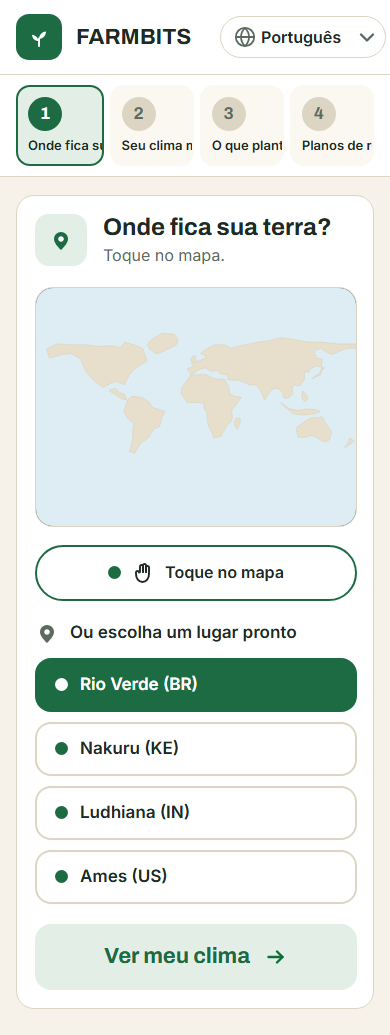
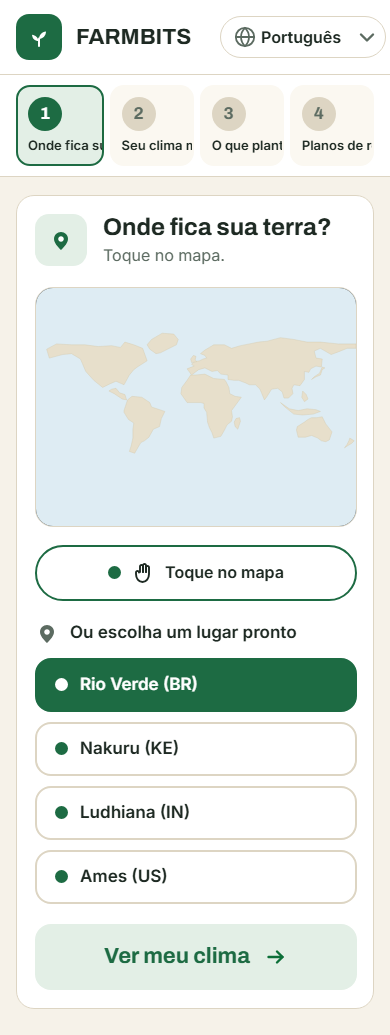
docs(site): record location screen verification

diff --git a/.specs/features/site-localizacao/tasks.md b/.specs/features/site-localizacao/tasks.md
@@ -1,10 +1,10 @@
 # Site — Onde fica sua terra? Tasks
 
-**Design**: [Design da primeira tela](design.md)  
-**Status**: In Progress  
-**Approved**: 2026-11-15 - user: "Aprovo, pode começar a implementação"  
-**Branch**: `codex/feat/site-location`  
-**Build**: `.venv/Scripts/python.exe -m compileall -q core web app.py mcp_server.py bot.py; .venv/Scripts/python.exe -m ruff check .`  
+**Design**: [Design da primeira tela](design.md)
+**Status**: Done
+**Approved**: 2026-11-15 - user: "Aprovo, pode começar a implementação"
+**Branch**: `codex/feat/site-location`
+**Build**: `.venv/Scripts/python.exe -m compileall -q core web app.py mcp_server.py bot.py; .venv/Scripts/python.exe -m ruff check .`
 **Run location**: `.venv/Scripts/python.exe -m pytest -v tests/web tests/app`
 
 ## Test Coverage Matrix
@@ -39,10 +39,10 @@ T4 → T5
 
 ### T1: Adicionar os textos da tela de localização
 
-**What**: Acrescentar ao catálogo os textos da abertura em português, inglês e espanhol e os rótulos de clima do desktop e do celular.  
-**Where**: `web/i18n.py`  
-**Depends on**: None  
-**Reuses**: Catálogo `TEXTOS` e função `t()`.  
+**What**: Acrescentar ao catálogo os textos da abertura em português, inglês e espanhol e os rótulos de clima do desktop e do celular.
+**Where**: `web/i18n.py`
+**Depends on**: None
+**Reuses**: Catálogo `TEXTOS` e função `t()`.
 **Requirement**: LOC-07, LOC-08
 
 **Done when**:
@@ -50,15 +50,15 @@ T4 → T5
 - [x] Os textos em português correspondem aos frames e as mesmas chaves estão disponíveis nos três idiomas.
 - [x] Gate quick passa com pelo menos 20 testes.
 
-**Tests**: Unit em `tests/web/test_i18n.py`, incluindo um teste novo do conjunto de textos.  
-**Gate**: Quick  
+**Tests**: Unit em `tests/web/test_i18n.py`, incluindo um teste novo do conjunto de textos.
+**Gate**: Quick
 **Commit**: `feat(site): add location screen translations`
 
 ### T2: Incorporar os ativos locais do Figma
 
-**What**: Salvar os SVGs usados na abertura desktop e mobile nos arquivos locais que o mapa e a tela carregarão.  
-**Where**: `assets/site-location/`  
-**Depends on**: None  
+**What**: Salvar os SVGs usados na abertura desktop e mobile nos arquivos locais que o mapa e a tela carregarão.
+**Where**: `assets/site-location/`
+**Depends on**: None
 **Requirement**: LOC-01, LOC-02
 
 **Done when**:
@@ -66,16 +66,16 @@ T4 → T5
 - [x] Os SVGs locais estão completos, têm as dimensões originais e estão associados aos respectivos usos no desktop e no celular.
 - [x] Gate quick passa com pelo menos 21 testes.
 
-**Tests**: Unit em `tests/web/test_site_location_assets.py`, incluindo um teste novo dos arquivos e dimensões.  
-**Gate**: Quick  
+**Tests**: Unit em `tests/web/test_site_location_assets.py`, incluindo um teste novo dos arquivos e dimensões.
+**Gate**: Quick
 **Commit**: `feat(site): add Figma location assets`
 
 ### T3: Implementar o mapa interativo
 
-**What**: Montar o mapa-múndi da abertura com a arte local, devolver o ponto normalizado de um clique e desenhar o marcador nas coordenadas selecionadas.  
-**Where**: `web/mapa.py`  
-**Depends on**: T2  
-**Reuses**: `web.pontos.normalizar`, Folium e streamlit-folium.  
+**What**: Montar o mapa-múndi da abertura com a arte local, devolver o ponto normalizado de um clique e desenhar o marcador nas coordenadas selecionadas.
+**Where**: `web/mapa.py`
+**Depends on**: T2
+**Reuses**: `web.pontos.normalizar`, Folium e streamlit-folium.
 **Requirement**: LOC-01, LOC-02, LOC-03, LOC-09
 
 **Done when**:
@@ -83,16 +83,16 @@ T4 → T5
 - [x] O mapa vazio renderiza a arte, um novo ponto substitui o marcador e o clique com longitude fora do intervalo é normalizado.
 - [x] Gate quick passa com pelo menos 23 testes.
 
-**Tests**: Unit em `tests/web/test_mapa.py`, com pelo menos dois testes novos para coordenadas e marcador.  
-**Gate**: Quick  
+**Tests**: Unit em `tests/web/test_mapa.py`, com pelo menos dois testes novos para coordenadas e marcador.
+**Gate**: Quick
 **Commit**: `feat(site): build the interactive location map`
 
 ### T4: Apresentar o contexto do local
 
-**What**: Exibir a consulta do local, o contexto retornado e os estados de erro.  
-**Where**: `web/localizacao.py`  
-**Depends on**: None  
-**Reuses**: `web.servico.Servico.contexto` e as mensagens e selos já disponíveis em `web.i18n`.  
+**What**: Exibir a consulta do local, o contexto retornado e os estados de erro.
+**Where**: `web/localizacao.py`
+**Depends on**: None
+**Reuses**: `web.servico.Servico.contexto` e as mensagens e selos já disponíveis em `web.i18n`.
 **Requirement**: LOC-05, LOC-06, LOC-10, LOC-11, LOC-12
 
 **Done when**:
@@ -100,16 +100,16 @@ T4 → T5
 - [x] O painel apresenta país, coordenadas e selo quando recebe contexto e oferece as respostas aprovadas para fora de terra firme e indisponibilidade.
 - [x] Gate quick passa com pelo menos 26 testes.
 
-**Tests**: Integração isolada em `tests/web/test_localizacao.py`, com pelo menos três testes novos para sucesso e falhas do motor.  
-**Gate**: Quick  
+**Tests**: Integração isolada em `tests/web/test_localizacao.py`, com pelo menos três testes novos para sucesso e falhas do motor.
+**Gate**: Quick
 **Commit**: `feat(site): show the selected location context`
 
 ### T5: Montar a abertura responsiva em Streamlit
 
-**What**: Integrar trilha, cabeçalho, seletor de idioma, mapa, quatro exemplos, contexto e botão de clima em uma tela responsiva.  
-**Where**: `app.py`  
-**Depends on**: T1, T3, T4  
-**Reuses**: `web.pontos.DEMO`, `web.servico.Servico`, `web.mapa`, `web.localizacao` e `web.i18n`.  
+**What**: Integrar trilha, cabeçalho, seletor de idioma, mapa, quatro exemplos, contexto e botão de clima em uma tela responsiva.
+**Where**: `app.py`
+**Depends on**: T1, T3, T4
+**Reuses**: `web.pontos.DEMO`, `web.servico.Servico`, `web.mapa`, `web.localizacao` e `web.i18n`.
 **Requirement**: LOC-01, LOC-02, LOC-03, LOC-04, LOC-05, LOC-06, LOC-07, LOC-08, LOC-09, LOC-10, LOC-11, LOC-12
 
 **Done when**:
@@ -118,52 +118,52 @@ T4 → T5
 - [x] O ponto escolhido é compartilhado entre o mapa e o painel, permanece na troca de idioma e o botão de clima continua desabilitado.
 - [x] Gate full passa com pelo menos 30 testes.
 
-**Tests**: Integração em `tests/app/test_site_location.py`, com pelo menos quatro testes novos, e verificação em navegador.  
-**Gate**: Full  
+**Tests**: Integração em `tests/app/test_site_location.py`, com pelo menos quatro testes novos, e verificação em navegador.
+**Gate**: Full
 **Commit**: `feat(site): assemble the responsive location screen`
 
 ## Checks
 
-**C1** - Abrir a 1366 px mostra a composição desktop com mapa sem ponto selecionado e o botão de clima desabilitado (LOC-01, AC 1).  
+**C1** - Abrir a 1366 px mostra a composição desktop com mapa sem ponto selecionado e o botão de clima desabilitado (LOC-01, AC 1).
 Proof: browser captures/onde-fica-sua-terra-desktop.running.png
 
-**C2** - Abrir a 390 px mostra a composição mobile, sem ponto selecionado e sem rolagem horizontal, com o botão de clima desabilitado (LOC-02, AC 2).  
+**C2** - Abrir a 390 px mostra a composição mobile, sem ponto selecionado e sem rolagem horizontal, com o botão de clima desabilitado (LOC-02, AC 2).
 Proof: browser captures/onde-fica-sua-terra-mobile.running.png
 
-**C3** - Um clique no mapa cria um marcador nas coordenadas arredondadas a duas casas e um segundo clique substitui o primeiro (LOC-03, AC 3).  
+**C3** - Um clique no mapa cria um marcador nas coordenadas arredondadas a duas casas e um segundo clique substitui o primeiro (LOC-03, AC 3).
 Proof: walk - clicar duas vezes em pontos distintos no mapa e conferir coordenadas e marcador único
 
-**C4** - Os quatro exemplos produzem os respectivos marcadores nas coordenadas de demonstração (LOC-04, AC 4).  
+**C4** - Os quatro exemplos produzem os respectivos marcadores nas coordenadas de demonstração (LOC-04, AC 4).
 Proof: run location | test_site_location.py::test_each_demo_selects_its_coordinates PASSED
 
-**C5** - Com contexto disponível, a tela exibe país, coordenadas e selo de precisão do ponto escolhido (LOC-05, AC 5).  
+**C5** - Com contexto disponível, a tela exibe país, coordenadas e selo de precisão do ponto escolhido (LOC-05, AC 5).
 Proof: run location | test_localizacao.py::test_context_shows_country_coordinates_and_precision PASSED
 
-**C6** - Enquanto o contexto está em processamento, a tela mostra um indicador de carregamento (LOC-06, AC 6).  
+**C6** - Enquanto o contexto está em processamento, a tela mostra um indicador de carregamento (LOC-06, AC 6).
 Proof: walk - selecionar um ponto com uma resposta do motor retardada e observar o indicador antes do contexto
 
-**C7** - O botão de clima permanece desabilitado antes e depois da seleção; cada largura mostra seu rótulo (LOC-07, AC 7).  
+**C7** - O botão de clima permanece desabilitado antes e depois da seleção; cada largura mostra seu rótulo (LOC-07, AC 7).
 Proof: walk - em desktop e celular conferir rótulo, estado semântico desabilitado e ausência de ação antes e depois de selecionar
 
-**C8** - Alternar entre português, inglês e espanhol traduz os textos fixos e mantém o ponto selecionado (LOC-08, AC 8).  
+**C8** - Alternar entre português, inglês e espanhol traduz os textos fixos e mantém o ponto selecionado (LOC-08, AC 8).
 Proof: run location | test_site_location.py::test_language_switch_translates_screen_and_keeps_point PASSED
 
-**C9** - Clicar em uma longitude fora de [-180, 180] envia a longitude normalizada ao motor (LOC-09, Edge 1).  
+**C9** - Clicar em uma longitude fora de [-180, 180] envia a longitude normalizada ao motor (LOC-09, Edge 1).
 Proof: run location | test_site_location.py::test_wrapped_map_click_queries_normalized_longitude PASSED
 
-**C10** - A rejeição de um ponto fora de terra firme mostra a mensagem aprovada e o usuário pode escolher outro lugar (LOC-10, Edge 2).  
+**C10** - A rejeição de um ponto fora de terra firme mostra a mensagem aprovada e o usuário pode escolher outro lugar (LOC-10, Edge 2).
 Proof: run location | test_site_location.py::test_off_land_map_click_allows_demo_selection PASSED
 
-**C11** - A indisponibilidade da fonte mostra a mensagem aprovada e uma nova tentativa pode obter o contexto (LOC-11, Edge 3).  
+**C11** - A indisponibilidade da fonte mostra a mensagem aprovada e uma nova tentativa pode obter o contexto (LOC-11, Edge 3).
 Proof: run location | test_localizacao.py::test_source_failure_displays_error_and_allows_retry PASSED
 
-**C12** - Repetir a solicitação de contexto disponível do mesmo ponto normalizado na sessão não faz outra consulta ao motor (LOC-12, Edge 4).  
+**C12** - Repetir a solicitação de contexto disponível do mesmo ponto normalizado na sessão não faz outra consulta ao motor (LOC-12, Edge 4).
 Proof: run location | test_site_location.py::test_reselecting_point_reuses_context_in_same_session PASSED
 
 ## Handoff
 
-**Settled mid-build:** none  
-**Dispatched:** Verificador independente e revisão de telas (rodada 1), ambos em b13b9a4.  
+**Settled mid-build:** none
+**Dispatched:** Verificador independente e revisão de telas (rodada 1), ambos em b13b9a4 e concluídos. As lacunas de prova foram corrigidas em bfed1ce.
 **Walked:** Abertura em Chrome a 1366 × 978 e 390 × 1035. Dois cliques no mapa mobile substituíram o marcador. Em desktop com resposta controlada, o navegador retornou (-10.8917197452, -50.7324840764) e (-0.8598726115, 33.8216560510). A tela mostrou -10.89, -50.73 e -0.86, 33.82 e desenhou um único marcador após cada clique. Rio Verde exibiu suas coordenadas no desktop. English traduziu a tela com o marcador preservado. O botão de clima ficou desabilitado em ambos os tamanhos, antes e depois da seleção. Uma resposta controlada de dois segundos mostrou o indicador antes de exibir o contexto.
 
 ## Phase Execution Map

diff --git a/.specs/features/site-localizacao/screens.md b/.specs/features/site-localizacao/screens.md
@@ -1,0 +1,120 @@
+# Onde fica sua terra? screens
+
+**Verifier**: independent sub-agent (author != verifier)
+**Round**: 1
+
+| Screen | Compared with | Verdict | Finding |
+| --- | --- | --- | --- |
+| `captures/onde-fica-sua-terra-desktop.running.png` | `captures/onde-fica-sua-terra-desktop.png` | matches | Abertura a 1366 × 978, sem ponto selecionado. A ação de clima está desabilitada conforme AD-006. |
+| `captures/onde-fica-sua-terra-mobile.running.png` | `captures/onde-fica-sua-terra-mobile.png` | matches | Abertura a 390 × 1035, sem ponto selecionado e sem rolagem horizontal da página. A ação de clima está desabilitada conforme AD-006. |
+
+### `captures/onde-fica-sua-terra-desktop.running.png`
+
+| Element | Result | Picture draws |
+| --- | --- | --- |
+| Cabeçalho branco em uma linha, com marca à esquerda e seletor de idioma à direita | same | |
+| Bloco verde arredondado do logotipo com ícone branco de broto | same | |
+| Nome `FARMBITS` | same | |
+| Subtítulo `Como o clima do seu lugar mudou e o que plantar agora · dados da NASA` | same | |
+| Seletor de idioma em forma de cápsula com contorno | same | |
+| Ícone de globo dentro do seletor | same | |
+| Rótulo `Português` | same | |
+| Chevron para baixo à direita do seletor | same | |
+| Linha horizontal abaixo do cabeçalho | same | |
+| Trilha branca com quatro blocos em uma fileira, cada um com número à esquerda do rótulo | same | Pequenas diferenças nas larguras e alturas. |
+| Primeiro bloco com fundo verde claro e contorno verde de etapa ativa | same | |
+| Círculo verde com o número branco `1` | same | |
+| Rótulo `Onde fica sua terra` | same | |
+| Segundo bloco com fundo neutro de etapa inativa | same | |
+| Círculo neutro com o número `2` | same | |
+| Rótulo `Seu clima mudou` | same | |
+| Terceiro bloco com fundo neutro de etapa inativa | same | |
+| Círculo neutro com o número `3` | same | |
+| Rótulo `O que plantar` | same | |
+| Quarto bloco com fundo neutro de etapa inativa | same | |
+| Círculo neutro com o número `4` | same | |
+| Rótulo `Planos de rotação` | same | |
+| Linha horizontal abaixo da trilha | same | |
+| Fundo bege claro e painel branco com contorno e cantos arredondados | same | |
+| Introdução no topo do painel, com ícone à esquerda e título e frase empilhados à direita | same | |
+| Pino verde de localização em bloco verde claro arredondado | same | Pino ligeiramente deslocado para baixo e para a direita. |
+| Título `Onde fica sua terra?` | same | |
+| Frase `Toque no mapa, no lugar da sua propriedade.` | same | |
+| Mapa horizontal com moldura arredondada, imediatamente abaixo da introdução | same | |
+| Oceano azul claro | same | |
+| Continentes e ilhas bege com contorno, enquadrados do mesmo modo | same | |
+| Estado inicial do mapa sem marcador | same | |
+| Cápsula branca contornada em verde sobre o canto inferior esquerdo do mapa | same | |
+| Ponto verde na cápsula do mapa | same | |
+| Ícone de mão na cápsula do mapa | same | |
+| Rótulo `Toque em qualquer lugar do mapa` | same | |
+| Linha de introdução aos exemplos abaixo do mapa, alinhada à esquerda | same | |
+| Ícone de pino na introdução aos exemplos | same | |
+| Rótulo `Ou escolha um lugar pronto` | same | |
+| Quatro botões de exemplo arredondados em uma fileira, com Rio Verde em destaque | same | Pequenas diferenças na largura dos botões. |
+| Fundo verde e ponto branco no primeiro botão | same | |
+| Rótulo `Rio Verde (BR)` | same | |
+| Contorno neutro e ponto verde no segundo botão | same | |
+| Rótulo `Nakuru (KE)` | same | |
+| Contorno neutro e ponto verde no terceiro botão | same | |
+| Rótulo `Ludhiana (IN)` | same | |
+| Contorno neutro e ponto verde no quarto botão | same | |
+| Rótulo `Ames (US)` | same | |
+| Botão arredondado de clima em toda a largura abaixo dos exemplos | same | Fundo verde claro e estado desabilitado conforme AD-006. |
+| Texto centralizado `Ver o que mudou no meu clima` | same | |
+| Seta para a direita ao lado do texto do botão de clima | same | |
+
+### `captures/onde-fica-sua-terra-mobile.running.png`
+
+| Element | Result | Picture draws |
+| --- | --- | --- |
+| Cabeçalho branco em uma linha, com marca à esquerda e seletor à direita | same | |
+| Bloco verde arredondado do logotipo com ícone branco de broto | same | |
+| Nome `FARMBITS` sem subtítulo no cabeçalho | same | |
+| Seletor de idioma em forma de cápsula com contorno | same | |
+| Ícone de globo dentro do seletor | same | |
+| Rótulo `Português` | same | |
+| Chevron para baixo à direita do seletor | same | |
+| Linha horizontal abaixo do cabeçalho | same | |
+| Trilha branca com quatro blocos em uma fileira, cada um com número acima do rótulo | same | Pequenas diferenças nas alturas. |
+| Primeiro bloco com fundo verde claro e contorno verde de etapa ativa | same | |
+| Círculo verde com o número branco `1` | same | |
+| Rótulo `Onde fica sua terra` cortado no limite do bloco, como no frame | same | |
+| Segundo bloco com fundo neutro de etapa inativa | same | |
+| Círculo neutro com o número `2` | same | |
+| Rótulo `Seu clima mudou` cortado no limite do bloco, como no frame | same | |
+| Terceiro bloco com fundo neutro de etapa inativa | same | |
+| Círculo neutro com o número `3` | same | |
+| Rótulo `O que plantar` cortado no limite do bloco, como no frame | same | |
+| Quarto bloco com fundo neutro de etapa inativa | same | |
+| Círculo neutro com o número `4` | same | |
+| Rótulo `Planos de rotação` cortado no limite do bloco, como no frame | same | |
+| Linha horizontal abaixo da trilha | same | |
+| Fundo bege claro e painel branco com contorno e cantos arredondados | same | |
+| Introdução no topo do painel, com ícone à esquerda e título e frase empilhados à direita | same | |
+| Pino verde de localização em bloco verde claro arredondado | same | |
+| Título `Onde fica sua terra?` | same | |
+| Frase `Toque no mapa.` | same | |
+| Mapa com moldura arredondada, imediatamente abaixo da introdução | same | |
+| Oceano azul claro | same | |
+| Continentes e ilhas bege com contorno, centralizados verticalmente no mapa | same | |
+| Estado inicial do mapa sem marcador | same | |
+| Cápsula branca contornada em verde em uma faixa sob o mapa | same | |
+| Ponto verde na cápsula sob o mapa | same | |
+| Ícone de mão na cápsula sob o mapa | same | |
+| Rótulo `Toque no mapa` | same | |
+| Linha de introdução aos exemplos abaixo da cápsula, alinhada à esquerda | same | |
+| Ícone de pino na introdução aos exemplos | same | |
+| Rótulo `Ou escolha um lugar pronto` | same | |
+| Quatro botões de exemplo arredondados empilhados em uma coluna | same | |
+| Fundo verde e ponto branco no primeiro botão | same | |
+| Rótulo `Rio Verde (BR)` | same | |
+| Contorno neutro e ponto verde no segundo botão | same | |
+| Rótulo `Nakuru (KE)` | same | |
+| Contorno neutro e ponto verde no terceiro botão | same | |
+| Rótulo `Ludhiana (IN)` | same | |
+| Contorno neutro e ponto verde no quarto botão | same | |
+| Rótulo `Ames (US)` | same | |
+| Botão arredondado de clima em toda a largura abaixo dos exemplos | same | Fundo verde claro e estado desabilitado conforme AD-006. |
+| Texto centralizado `Ver meu clima` | same | |
+| Seta para a direita ao lado do texto do botão de clima | same | |

diff --git a/.specs/features/site-localizacao/verification.md b/.specs/features/site-localizacao/verification.md
@@ -1,0 +1,40 @@
+# Onde fica sua terra? verification
+
+**Verdict**: PASS
+**Proofs**: `proofs.md` at b13b9a4
+**Verifier**: independent sub-agent (author != verifier)
+
+## Checks
+
+| Check | Test | Holds |
+| --- | --- | --- |
+| C1 | `captures/onde-fica-sua-terra-desktop.running.png` e revisão independente em `screens.md` | yes — composição a 1366 × 978, mapa sem marcador e botão desabilitado conforme AD-006. |
+| C2 | `captures/onde-fica-sua-terra-mobile.running.png` e revisão independente em `screens.md` | yes — composição a 390 × 1035, sem marcador na abertura nem rolagem horizontal, com botão desabilitado. |
+| C3 | Percurso em Chrome com dois cliques, mais `test_mapa.py::test_clique_normaliza_longitude_e_arredonda` | yes — os cliques renderizaram `-10.89, -50.73` e `-0.86, 33.82`, respectivamente, com um único marcador após cada seleção. |
+| C4 | `test_site_location.py::test_each_demo_selects_its_coordinates` | yes — o teste fixa os quatro exemplos e verifica rótulo, coordenadas e marcador. |
+| C5 | `test_localizacao.py::test_context_shows_country_coordinates_and_precision` | yes — o texto completo é verificado para os selos municipal, país e clima. |
+| C6 | Percurso em navegador com resposta controlada de dois segundos | yes — o indicador aparece antes do contexto. |
+| C7 | Percurso em desktop e celular, mais `test_site_location.py::test_climate_buttons_are_disabled_before_and_after_selection` | yes — o percurso cobre os rótulos exibidos e o teste verifica o estado desabilitado de cada controle nos dois estados de seleção. |
+| C8 | `test_site_location.py::test_language_switch_translates_screen_and_keeps_point` | yes — o teste verifica os textos fixos, as duas ações de clima e o selo em cada idioma, preservando o marcador. |
+| C9 | `test_site_location.py::test_wrapped_map_click_queries_normalized_longitude` e `test_pontos.py::test_longitude_normalizada` | yes — a integração compara as coordenadas enviadas ao motor e o teste unitário cobre a normalização nos dois sentidos. |
+| C10 | `test_site_location.py::test_off_land_map_click_allows_demo_selection` | yes — o teste integrado recebe a rejeição pelo mapa e recupera o contexto pelo botão de exemplo. |
+| C11 | `test_localizacao.py::test_source_failure_displays_error_and_allows_retry` | yes — compara a mensagem e aciona a tentativa, que exibe o contexto do mesmo ponto. |
+| C12 | `test_site_location.py::test_reselecting_point_reuses_context_in_same_session` | yes — o teste seleciona coordenadas brutas distintas que normalizam para o ponto já consultado. |
+
+## Findings
+
+| Finding | Evidence | Fix | Closed |
+| --- | --- | --- | --- |
+| C4 aceita exemplos alterados no teste de integração | `tests/app/test_site_location.py:31` usa `DEMO.items()` como expectativa. A checagem de valores em `tests/web/test_pontos.py` testa somente o dicionário. | Fixar no AppTest os quatro pares de rótulo e coordenadas e conferir a lista de botões, o marcador e a consulta. | `bfed1ce` |
+| C5 aceita que todo contexto exiba selo municipal | `tests/web/test_localizacao.py:29` injeta apenas contexto municipal. | Exercitar os três valores de precisão retornados pelo motor e comparar o texto completo de cada contexto. | `bfed1ce` |
+| C8 aceita textos fixos em português após trocar o idioma | `tests/app/test_site_location.py:47`–`49` só verificam o título, a ação desktop e o marcador. | Conferir também os textos fixos da trilha e do cabeçalho, as instruções e dicas responsivas, o rótulo dos exemplos e a ação mobile em cada idioma. | `bfed1ce` |
+| C10 aceita que a tela perca a capacidade de escolher outro ponto depois do erro | `tests/web/test_localizacao.py:42` altera `session_state.ponto` diretamente no painel isolado. | Disparar a rejeição no app e escolher outro local usando um controle da tela, verificando o contexto recuperado. | `bfed1ce` |
+| C12 aceita cache limitado ao mesmo caminho de seleção | `tests/app/test_site_location.py:63`–`65` repetem o botão de Rio Verde, com Nakuru entre as seleções. | Reabrir o mesmo ponto normalizado a partir de coordenadas brutas diferentes e conferir a contagem de chamadas ao motor. | `bfed1ce` |
+
+## Independent Examples
+
+- `(43.061, -218.648)` marcou `(43.06, 141.35)` e exibiu o selo de país com resposta controlada. Depois de outras seleções, `(43.064, 141.354)` recuperou o mesmo contexto e o motor foi consultado uma única vez para esse ponto.
+- `(11.254, -173.751)` exibiu o aviso de terra firme com uma rejeição controlada. A seleção seguinte em `(-33.923, 18.422)` marcou `(-33.92, 18.42)` e exibiu “Estimado pelo clima”.
+- A arte vinculante simplifica o litoral e omite ilhas. Na escala nativa do SVG desktop, `(18.49, -69.90)` é identificado como República Dominicana pelo motor e cai no fundo de água a 23 px da silhueta mais próxima.
+
+Nos dois primeiros exemplos, o caminho executado usou `clicar`, `marcador`, `Servico` e `exibir_contexto` com respostas do motor controladas.

diff --git a/.specs/features/site-localizacao/spec.md b/.specs/features/site-localizacao/spec.md
@@ -61,18 +61,18 @@ A primeira entrega do site público FARMBITS permite que a pessoa localize sua t
 
 | Requirement ID | Story | Phase | Status |
 | --- | --- | --- | --- |
-| LOC-01 | Abertura desktop | Execute | Implementing |
-| LOC-02 | Abertura mobile | Execute | Implementing |
-| LOC-03 | Seleção no mapa | Execute | Implementing |
-| LOC-04 | Exemplos de demonstração | Execute | Implementing |
-| LOC-05 | Contexto do local | Execute | Implementing |
-| LOC-06 | Carregamento do contexto | Execute | Implementing |
-| LOC-07 | Botão de clima desabilitado | Execute | Implementing |
-| LOC-08 | Seletor de idioma | Execute | Implementing |
-| LOC-09 | Normalização de longitude | Execute | Implementing |
-| LOC-10 | Ponto fora de terra firme | Execute | Implementing |
-| LOC-11 | Indisponibilidade de dados | Execute | Implementing |
-| LOC-12 | Reuso de contexto na sessão | Execute | Implementing |
+| LOC-01 | Abertura desktop | Execute | Verified |
+| LOC-02 | Abertura mobile | Execute | Verified |
+| LOC-03 | Seleção no mapa | Execute | Verified |
+| LOC-04 | Exemplos de demonstração | Execute | Verified |
+| LOC-05 | Contexto do local | Execute | Verified |
+| LOC-06 | Carregamento do contexto | Execute | Verified |
+| LOC-07 | Botão de clima desabilitado | Execute | Verified |
+| LOC-08 | Seletor de idioma | Execute | Verified |
+| LOC-09 | Normalização de longitude | Execute | Verified |
+| LOC-10 | Ponto fora de terra firme | Execute | Verified |
+| LOC-11 | Indisponibilidade de dados | Execute | Verified |
+| LOC-12 | Reuso de contexto na sessão | Execute | Verified |
 
 ## Differences from the source
 

diff --git a/.specs/features/site-localizacao/context.md b/.specs/features/site-localizacao/context.md
@@ -1,6 +1,6 @@
 # Site — Onde fica sua terra?
 
-**Data:** 2026-11-15  
+**Data:** 2026-11-15
 **Escopo:** primeira entrega do Site em Streamlit.
 
 ## Feature Boundary
